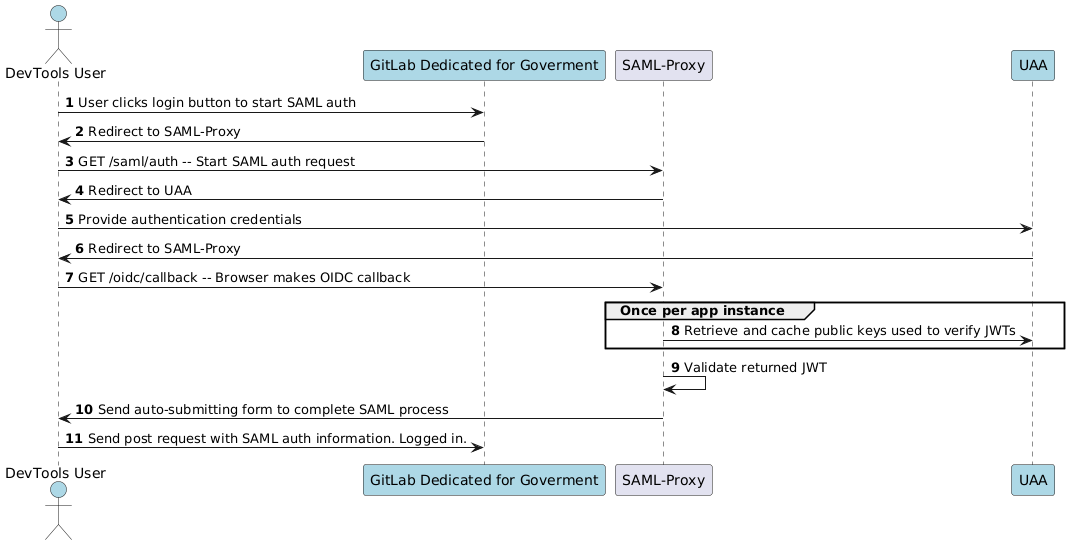
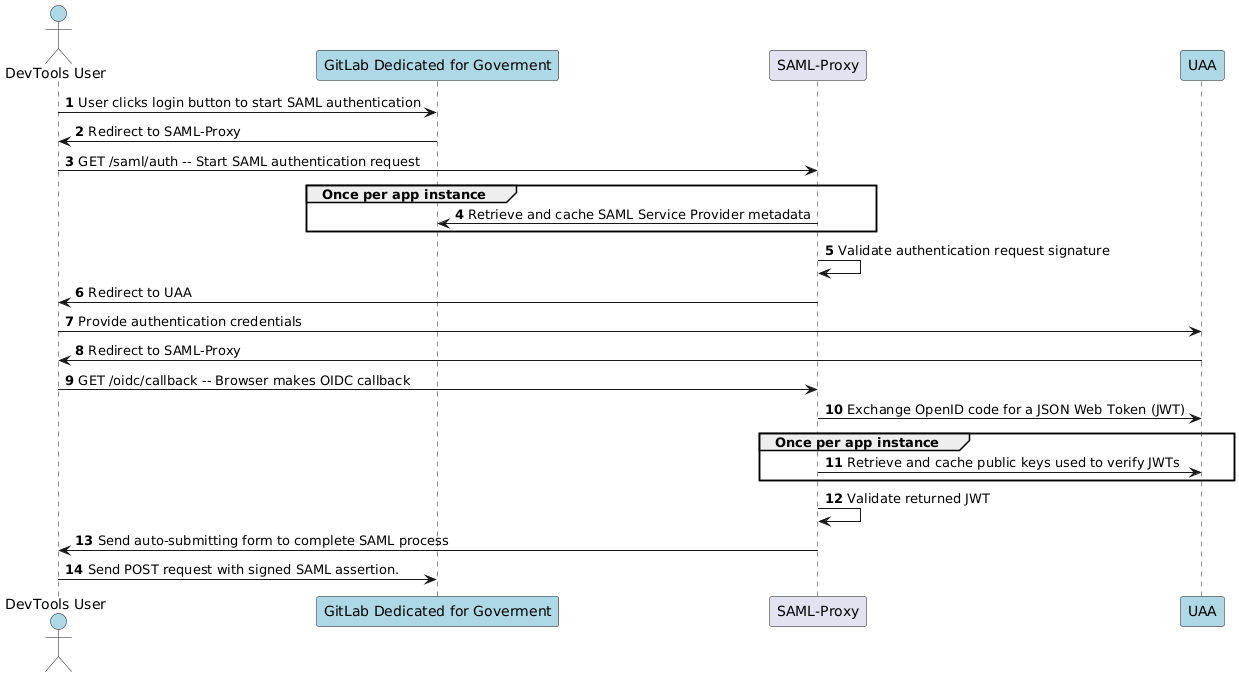
Update diagrams for authentication request signing workflow

diff --git a/doc/compliance/apps/data.flow.md b/doc/compliance/apps/data.flow.md
@@ -11,19 +11,24 @@ Participant "UAA" #add8e6
 
 autonumber
 
-User -> GDG : User clicks login button to start SAML auth
+User -> GDG : User clicks login button to start SAML authentication
 GDG -> User : Redirect to SAML-Proxy
-User -> SP : GET /saml/auth -- Start SAML auth request
+User -> SP : GET /saml/auth -- Start SAML authentication request
+group Once per app instance
+SP -> GDG : Retrieve and cache SAML Service Provider metadata
+end
+SP -> SP : Validate authentication request signature
 SP -> User : Redirect to UAA
 User -> UAA : Provide authentication credentials
 UAA -> User : Redirect to SAML-Proxy
 User -> SP : GET /oidc/callback -- Browser makes OIDC callback
+SP -> UAA : Exchange OpenID code for a JSON Web Token (JWT)
 group Once per app instance
 SP -> UAA : Retrieve and cache public keys used to verify JWTs
 end
 SP -> SP : Validate returned JWT
 SP -> User : Send auto-submitting form to complete SAML process
-User -> GDG : Send post request with SAML auth information. Logged in.
+User -> GDG : Send POST request with signed SAML assertion.
 @enduml
 ```
 

diff --git a/doc/compliance/apps/application.boundary.md b/doc/compliance/apps/application.boundary.md
@@ -56,6 +56,7 @@ Rel(developer, gitlabci, "Publish code", "git ssh (22)")
 Rel(gitlabci, cg_api, "Deploy App", "Auth: SpaceDeployer Service Account, https (443)")
 Rel(app, proxy, "Proxy outbound connections", "https (443)")
 Rel(proxy, cg_uaa, "Retrieve JWT signing keys", "https (443)")
+Rel(proxy, gdg, "Retrieve SAML SP metadata", "https (443)")
 Rel(browser, cg_uaa, "Provide authentication credentials", "https (443)")
 @enduml
 ```

diff --git a/doc/compliance/README.md b/doc/compliance/README.md
@@ -31,7 +31,7 @@ These plugins may be helpful for editing diagrams.
 | Setting name | Value |
 | ------------ | ----- |
 | Diagrams Root | `doc/compliance` |
-| Export Format | `svg` |
+| Export Format | `png` |
 | Export Out Dir | `doc/compliance/rendered` |
 | Export Sub Folder | unchecked |
 | File Extensions | append `.md` |
